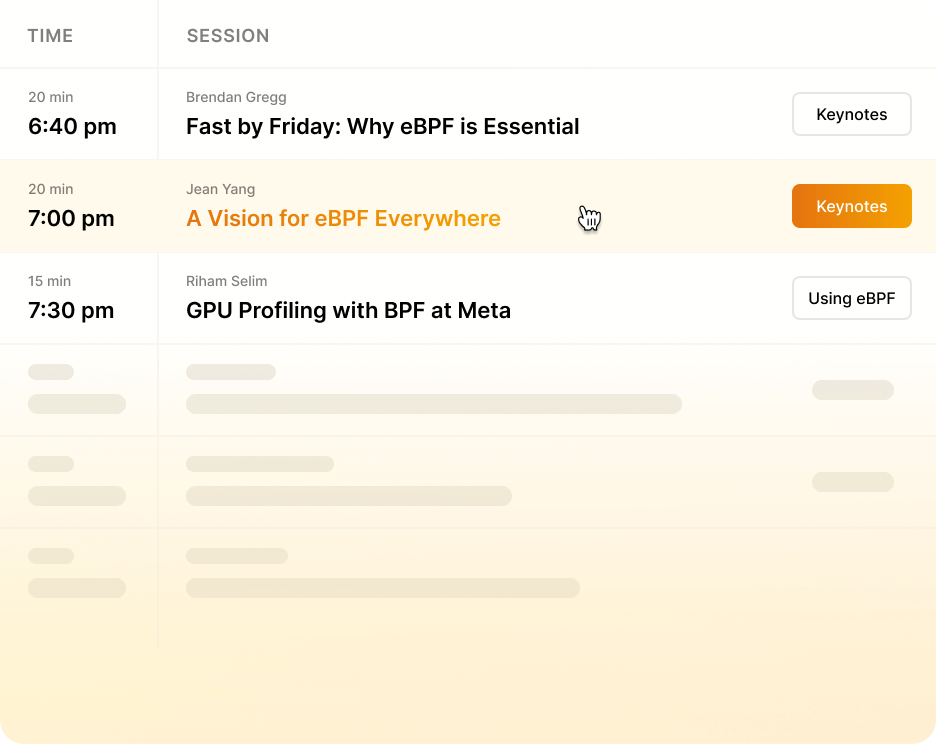
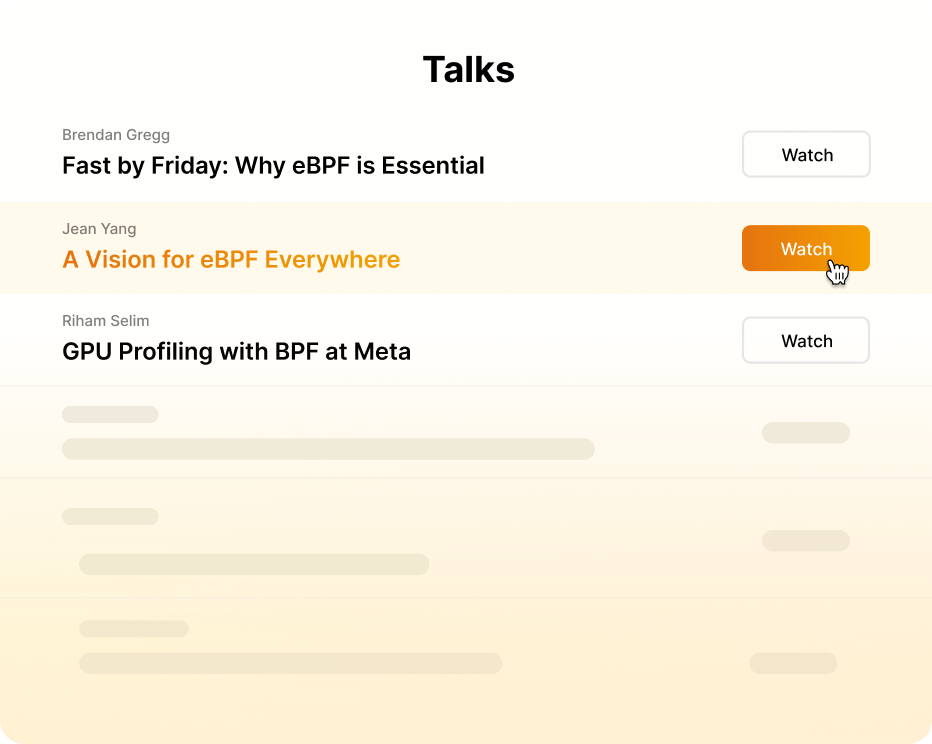
fix: fixes after review

diff --git a/src/components/pages/summit-schedule/hero/hero.jsx b/src/components/pages/summit-schedule/hero/hero.jsx
@@ -1,48 +1,18 @@
 import PropTypes from 'prop-types';
-import React, { useState } from 'react';
+import React from 'react';
 
-import Button from 'components/shared/button';
-import FormModal from 'components/shared/form-modal';
-import { hubspotFormId } from 'data/shared/summit-2023-navigation';
-
-const Hero = ({ title, description }) => {
-  const [isOpen, setIsOpen] = useState(false);
-  const openModal = () => {
-    setIsOpen(true);
-  };
-
-  const closeModal = (e) => {
-    e.stopPropagation();
-    setIsOpen(false);
-  };
-
-  return (
-    <section className="safe-paddings">
-      <div className="container py-16 md:pt-8 ">
-        <div className="flex flex-col items-center text-center">
-          <h1 className="text-9xl font-bold leading-tight sm:text-7xl">{title}</h1>
-          <p className="mt-4 max-w-[590px] text-xl font-light md:max-w-none md:text-lg">
-            {description}
-          </p>
-          <Button
-            className="mt-6 flex items-center rounded-lg px-6 leading-none sm:flex-1"
-            size="sm"
-            theme="orange"
-            onClick={openModal}
-          >
-            Register here
-          </Button>
-        </div>
+const Hero = ({ title, description }) => (
+  <section className="safe-paddings">
+    <div className="container pt-16 md:pt-8 ">
+      <div className="flex flex-col items-center text-center">
+        <h1 className="text-9xl font-bold leading-tight sm:text-7xl">{title}</h1>
+        <p className="mt-4 max-w-[590px] text-xl font-light md:max-w-none md:text-lg">
+          {description}
+        </p>
       </div>
-      <FormModal
-        title="Register for eBPF Summit"
-        isOpen={isOpen}
-        closeModal={closeModal}
-        hubspotFormId={hubspotFormId}
-      />
-    </section>
-  );
-};
+    </div>
+  </section>
+);
 
 Hero.propTypes = {
   title: PropTypes.string.isRequired,

diff --git a/gatsby/create-pages.js b/gatsby/create-pages.js
@@ -5,6 +5,13 @@ const createGetStartedPage = require('./create-get-started');
 const createLabsPage = require('./create-labs-page');
 const createStaticPages = require('./create-static-pages');
 
+const REDIRECTS = [
+  {
+    from: '/summit-2023-schedule/',
+    to: '/summit-2023-talks/',
+  },
+];
+
 module.exports = async (options) => {
   await createStaticPages(options);
   await createBlogPostsPage(options);
@@ -12,4 +19,17 @@ module.exports = async (options) => {
   await createEventsPage(options);
   await createGetStartedPage(options);
   await createLabsPage(options);
+
+  const {
+    actions: { createRedirect },
+  } = options;
+
+  REDIRECTS.forEach(({ from, to }) => {
+    createRedirect({
+      fromPath: from,
+      toPath: to,
+      isPermanent: true,
+      redirectInBrowser: true,
+    });
+  });
 };

diff --git a/src/components/pages/summit-2023/information/banner/banner.jsx b/src/components/pages/summit-2023/information/banner/banner.jsx
@@ -8,8 +8,8 @@ const data = {
   title: 'Don’t Miss Out!<br /> eBPF 2023 Summit Talks',
   description:
     'Discover how individuals and initiatives currently utilize eBPF to address engineering challenges, and explore the ongoing evolution of eBPF itself.',
-  linkText: 'View the talks',
-  linkUrl: '/summit-2023-schedule/',
+  linkText: 'View talks',
+  linkUrl: '/summit-2023-talks/',
 };
 
 const Banner = () => (

diff --git a/src/data/shared/summit-2023-navigation.js b/src/data/shared/summit-2023-navigation.js
@@ -1,6 +1,6 @@
 export const navigation = [
   { name: 'Information', href: '/summit-2023/#information' },
-  { name: 'Schedule', href: '/summit-2023-schedule' },
+  { name: 'Talks', href: '/summit-2023-talks' },
   { name: 'eBPF resources', href: '/resources' },
   { name: `Last year's summit`, href: `/summit-2023/#last-year-summit` },
   { name: 'Attendee Swag', href: '/swag' },

diff --git a/src/pages/summit-2023.jsx b/src/pages/summit-2023.jsx
@@ -79,8 +79,8 @@ const Summit2023 = () => (
     <Speakers
       title="Featured Speakers"
       endpoint={endpoints.speakers}
-      linkTitle="View the talks"
-      linkUrl="/summit-2023-schedule/"
+      linkTitle="View talks"
+      linkUrl="/summit-2023-talks/"
     />
     <Information />
     <Hosts {...hosts} />
